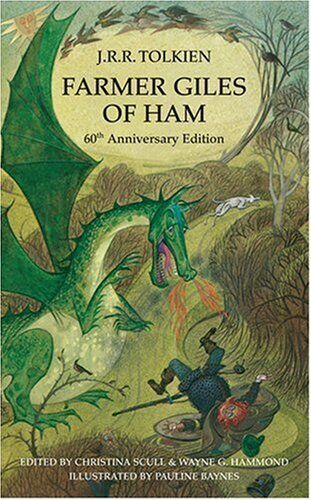
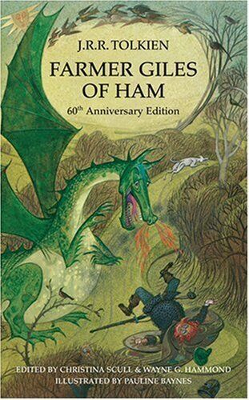
Upload updated images to literature

diff --git a/literature.html b/literature.html
@@ -42,22 +42,28 @@
   <main class="container-fluid overflow-auto" id="main-literature">
     <h2 class="text-center my-5 bg-warning-subtle">The Literature of Tolkien</h2>
     <section>
-        <div class="bg-warning-subtle card shadow p-3">
+        <div class="bg-warning-subtle card shadow p-3 my-5">
           <h3>Middle-Earth Fiction and Poetry</h3>
+          <div class="my-2">
+            <img src="assets/images/literature/lord-of-the-rings.jpg" class="img-fluid rounded mx-auto d-block" alt="">
           <p>Lorem ipsum dolor sit amet consectetur adipisicing elit. Facere, consequuntur nemo vitae totam ex officiis distinctio repudiandae deleniti tenetur excepturi maxime recusandae itaque? Voluptates laborum, repellat vitae distinctio autem architecto? Lorem ipsum dolor sit amet consectetur adipisicing elit. Voluptatem provident mollitia at accusamus ad illo voluptas dolorem laborum, minus velit quam dolor aspernatur placeat, voluptatum exercitationem, ut fugit numquam voluptatibus!Lorem ipsum dolor sit, amet consectetur adipisicing elit. Repellendus doloribus aspernatur eius totam praesentium facilis exercitationem odit accusantium maiores culpa sit qui, aut earum tenetur architecto minima aliquam! Sequi, et.</p>
         </div>
-        <div class="">
-          <img src="assets/images/literature/lotr-trilogy-books.jpeg" class="img-fluid rounded mx-auto d-block" alt="">
-        </div>
+
     </section>
     <section>
-        <div class="bg-warning-subtle card shadow p-3">
+        <div class="bg-warning-subtle card shadow p-3 my-5">
           <h3>Short Stories</h3>
+          <div class="row">
+            <div class="my-2 col-6 col-sm-6">
+              <img src="assets/images/literature/farmer-giles-of-ham.jpg" class="img-fluid rounded mx-auto d-block" alt="">
+            </div>
+            <div class="my-2 col-6 col-sm-6">       
+              <img src="assets/images/literature/tree-and-leaf-book.jpeg" class="img-fluid rounded mx-auto d-block" alt="">
+            </div>
+          </div>
           <p>Lorem ipsum dolor sit amet consectetur adipisicing elit. Facere, consequuntur nemo vitae totam ex officiis distinctio repudiandae deleniti tenetur excepturi maxime recusandae itaque? Voluptates laborum, repellat vitae distinctio autem architecto? Lorem ipsum dolor sit amet consectetur adipisicing elit. Voluptatem provident mollitia at accusamus ad illo voluptas dolorem laborum, minus velit quam dolor aspernatur placeat, voluptatum exercitationem, ut fugit numquam voluptatibus!Lorem ipsum dolor sit, amet consectetur adipisicing elit. Repellendus doloribus aspernatur eius totam praesentium facilis exercitationem odit accusantium maiores culpa sit qui, aut earum tenetur architecto minima aliquam! Sequi, et.</p>
         </div>
-        <div class="">
-          <img src="assets/images/literature/farmer-giles-of-ham.jpg" class="img-fluid" alt="">
-        </div>
+
     </section>
     <section>
         <div class="bg-warning-subtle card shadow p-3">
